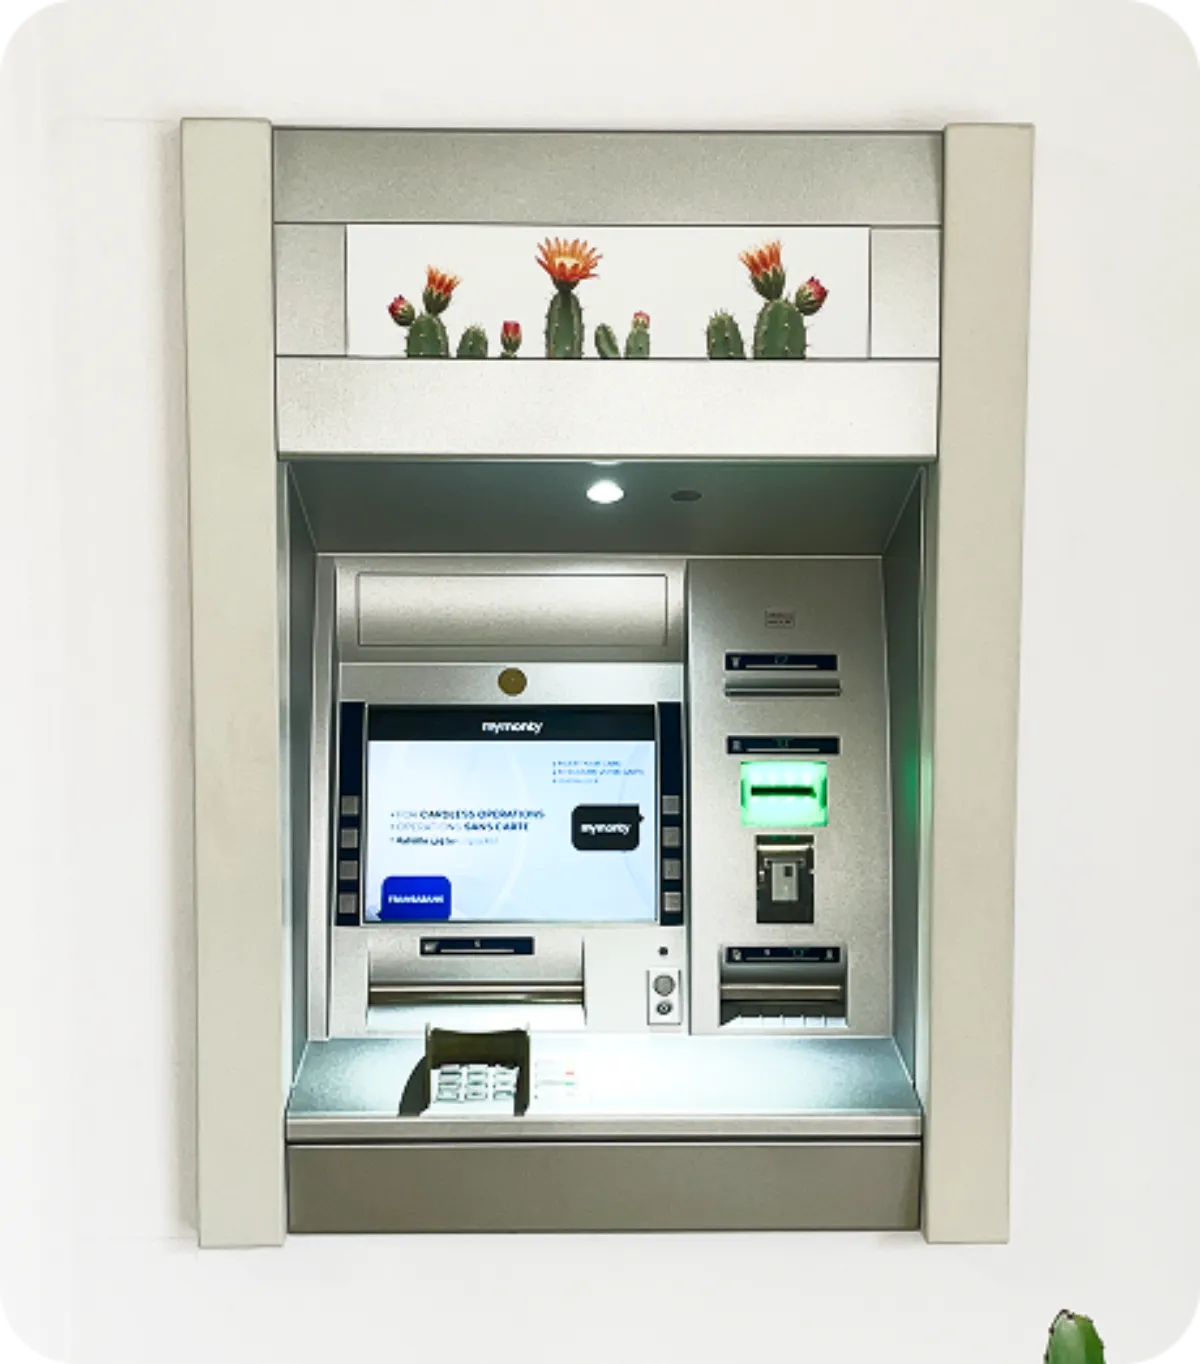
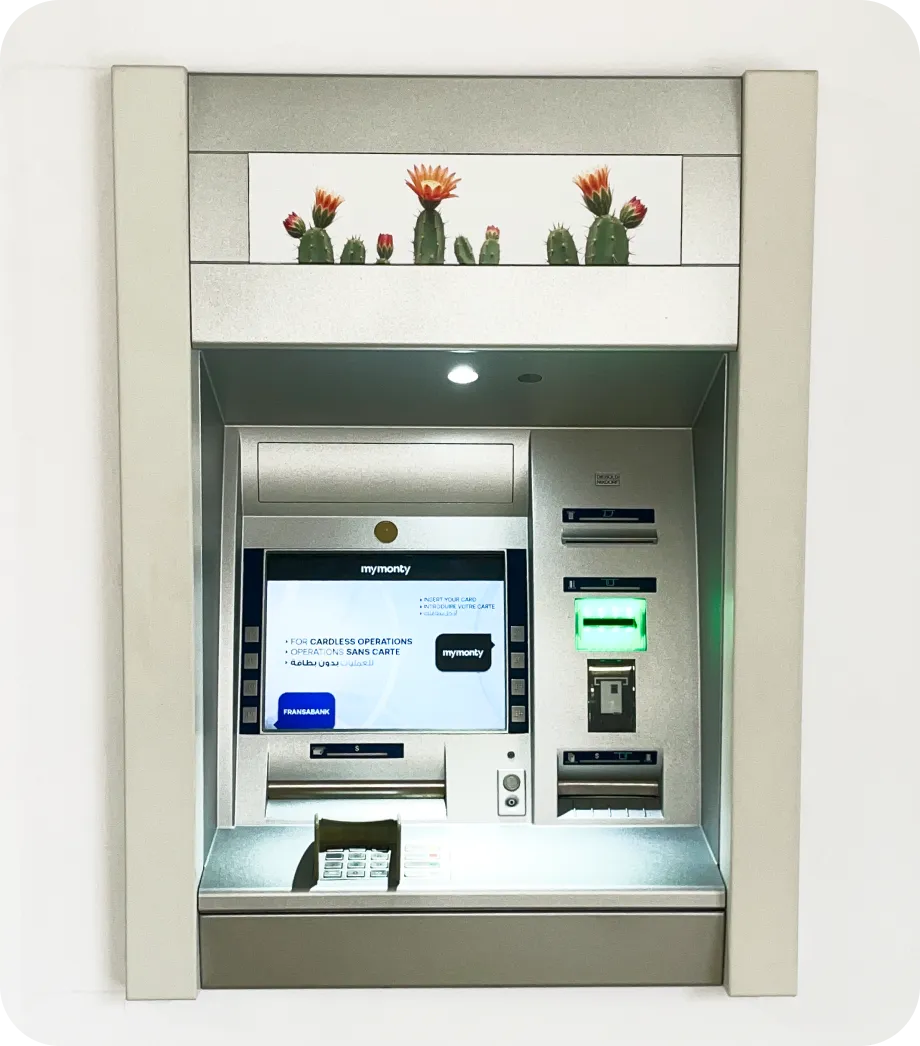
,

diff --git a/app/accounts/forex-exchange/page.js b/app/accounts/forex-exchange/page.js
@@ -1,0 +1,93 @@
+import React from 'react';
+import { websiteName } from '@/app/config';
+import Banner from '@/app/components/Banner';
+import banner from '@/public/forex-exchange-banner.webp';
+import TextBlock from '@/app/components/TextBlock';
+import Branches from '@/app/components/Branches';
+import ATMs from '@/app/components/ATMs';
+
+export const metadata = {
+    title: 'Forex Exchange' + websiteName,
+    description: 'Exchange on the go',
+};
+const page = () => {
+    const data = {
+        title: 'Exchange on the go',
+        subtitle: 'Accounts',
+        desc: 'Quick. Fair. Hassle-free.',
+        image: {
+            inGrid: true,
+            layout: 'half',
+            url: banner,
+        },
+        cta: {
+            type: 'button',
+            button: {
+                name: 'Download app'
+            }
+        }
+    };
+
+    const terms = {
+        termsAndConditions: false, 
+        kfs: 'KFS-Individual-eWallet-Account-16.7.25.pdf'
+    }
+
+  return (
+    <>
+        <Banner data={data} terms={terms}/>
+        <section className='max-lg:py-14 lg:py-28 bg-white'>
+            <div className='container text-center'>
+                <TextBlock title="Switch Between USD and LBP" description="Get the daily market rate instantly. <br /> No queues. No Waiting. It’s all on your app." center={true} />
+                <img src='/switch-between.webp' className='w-full mt-16'/>
+            </div>
+        </section>
+
+        <section className="bg-white py-28 max-lg:py-14">
+            <div className='container'>
+                <div className='flex flex-col gap-20'>
+                    <div className='flex items-center max-lg:gap-10 lg:gap-32 max-lg:flex-col'>
+                        <div className='w-full'>
+                            <TextBlock buttonColor="dark" title="Fast AND Transparent" description="See exactly what you get before you confirm. Your money, your control." />
+                        </div>
+                        <div className='w-full'>
+                            <img src='/fast-and-transparent.webp' className='max-w-[575px] w-full' alt='Forex Image'/>
+                        </div>
+                        
+                    </div>
+
+                    <div className='flex items-center max-lg:gap-10 lg:gap-32 max-lg:flex-col-reverse'>
+                        <div className='w-full'>
+                            <img src='/safe-and-secure.webp' alt='Statement Image' className='max-w-[575px] w-full'/>
+                        </div>
+                        <div className='w-full'>
+                            <TextBlock buttonColor="dark" title="Safe AND Secure" description="All transactions are protected by MyMonty’s top-notch security, so you can exchange with confidence."/>
+                        </div>
+                        
+                        
+                    </div>
+
+                    <div className='flex items-center max-lg:gap-10 lg:gap-32 max-lg:flex-col'>
+                        <div className='w-full'>
+                            <TextBlock buttonColor="dark" title="Exchange money like a pro" description="Skip the exchange office and forget asking friends or colleagues for change. Your wallet handles it all." />
+                        </div>
+                        <div className='w-full'>
+                            <img src='/exchange-money.webp' className='max-w-[575px] w-full' alt='Forex Image'/>
+                        </div>
+                        
+                    </div>
+
+                </div>
+                
+            </div>
+        </section>
+        <section>
+            <div className='container text-center lg:mb-28 max-lg:mb-14'>
+                <TextBlock buttonColor="dark" center={true} title="Powered by Srour Company for Exchange S.A.R.L." button={true}/>
+            </div>
+        </section>
+    </>
+  )
+}
+
+export default page;

diff --git a/app/accounts/withdraw/page.js b/app/accounts/withdraw/page.js
@@ -1,0 +1,70 @@
+import React from 'react';
+import { websiteName } from '@/app/config';
+import Banner from '@/app/components/Banner';
+import banner from '@/public/withdraw-banner.webp';
+import TextBlock from '@/app/components/TextBlock';
+import Branches from '@/app/components/Branches';
+import ATMs from '@/app/components/ATMs';
+
+export const metadata = {
+    title: 'Withdraw' + websiteName,
+    description: 'Running out of cash?',
+};
+const page = () => {
+    const data = {
+        title: 'Running out of cash?',
+        subtitle: 'Accounts',
+        desc: 'MyMonty is Everywhere.',
+        image: {
+            inGrid: true,
+            layout: 'half',
+            url: banner,
+        },
+        cta: {
+            type: 'button',
+            button: {
+                name: 'Download app'
+            }
+        }
+    };
+
+    const terms = {
+        termsAndConditions: false, 
+        kfs: 'KFS-Individual-eWallet-Account-16.7.25.pdf'
+    }
+
+  return (
+    <>
+        <Banner data={data} terms={terms}/>
+        <Branches title="Withdraw via MyMonty Branch" description="We’d love to meet you! Visit us at:" info="Our staff at the counter are always ready to support you!" />
+        <section className='max-lg:py-14 lg:py-28 bg-white'>
+            <div className='container text-center'>
+                <TextBlock title="Withdraw via Agent Partners" description="Cash out anywhere, anytime. <br /> Visit any of the <strong>1,400+ OMT locations </strong> across Lebanon. Give them your ID transaction number, grab your cash, and watch your wallet balance adjust instantly." center={true} />
+                <img src='/top-up-via-agent-partners.webp' className='w-full mt-16'/>
+            </div>
+        </section>
+
+        <ATMs title="Withdraw via MyMonty ATMs" description="MyMonty is there, wherever you need it! <br /> Unload your wallet balance without needing an ID or even a card. <br /> Our ATMs are available at the following locations:" bgColor="#D25788" />
+
+        <section className="bg-white py-28 max-lg:py-14">
+            <div className='container'>
+                <div className='flex flex-col gap-20'>
+                    <div className='flex items-center max-lg:gap-10 lg:gap-32 max-lg:flex-col'>
+                        <div className='w-full'>
+                            <TextBlock buttonColor="dark" title="Withdraw via Integrated ATMs" description="Contactless withdrawals, a little magic that puts cash in your hands. <br /> Head to your nearest Fransabank or BLC ATM, select MyMonty, follow the steps, and voilà, your money is ready. <br /> Don’t forget your phone… who would anyway? " link="/accounts/top-up" />
+                        </div>
+                        <div className='w-full'>
+                            <img src='/top-up-via-integrated-atms.webp' className='max-w-[575px] w-full' alt='Forex Image'/>
+                        </div>
+                        
+                    </div>
+
+                </div>
+                
+            </div>
+        </section>       
+    </>
+  )
+}
+
+export default page;
